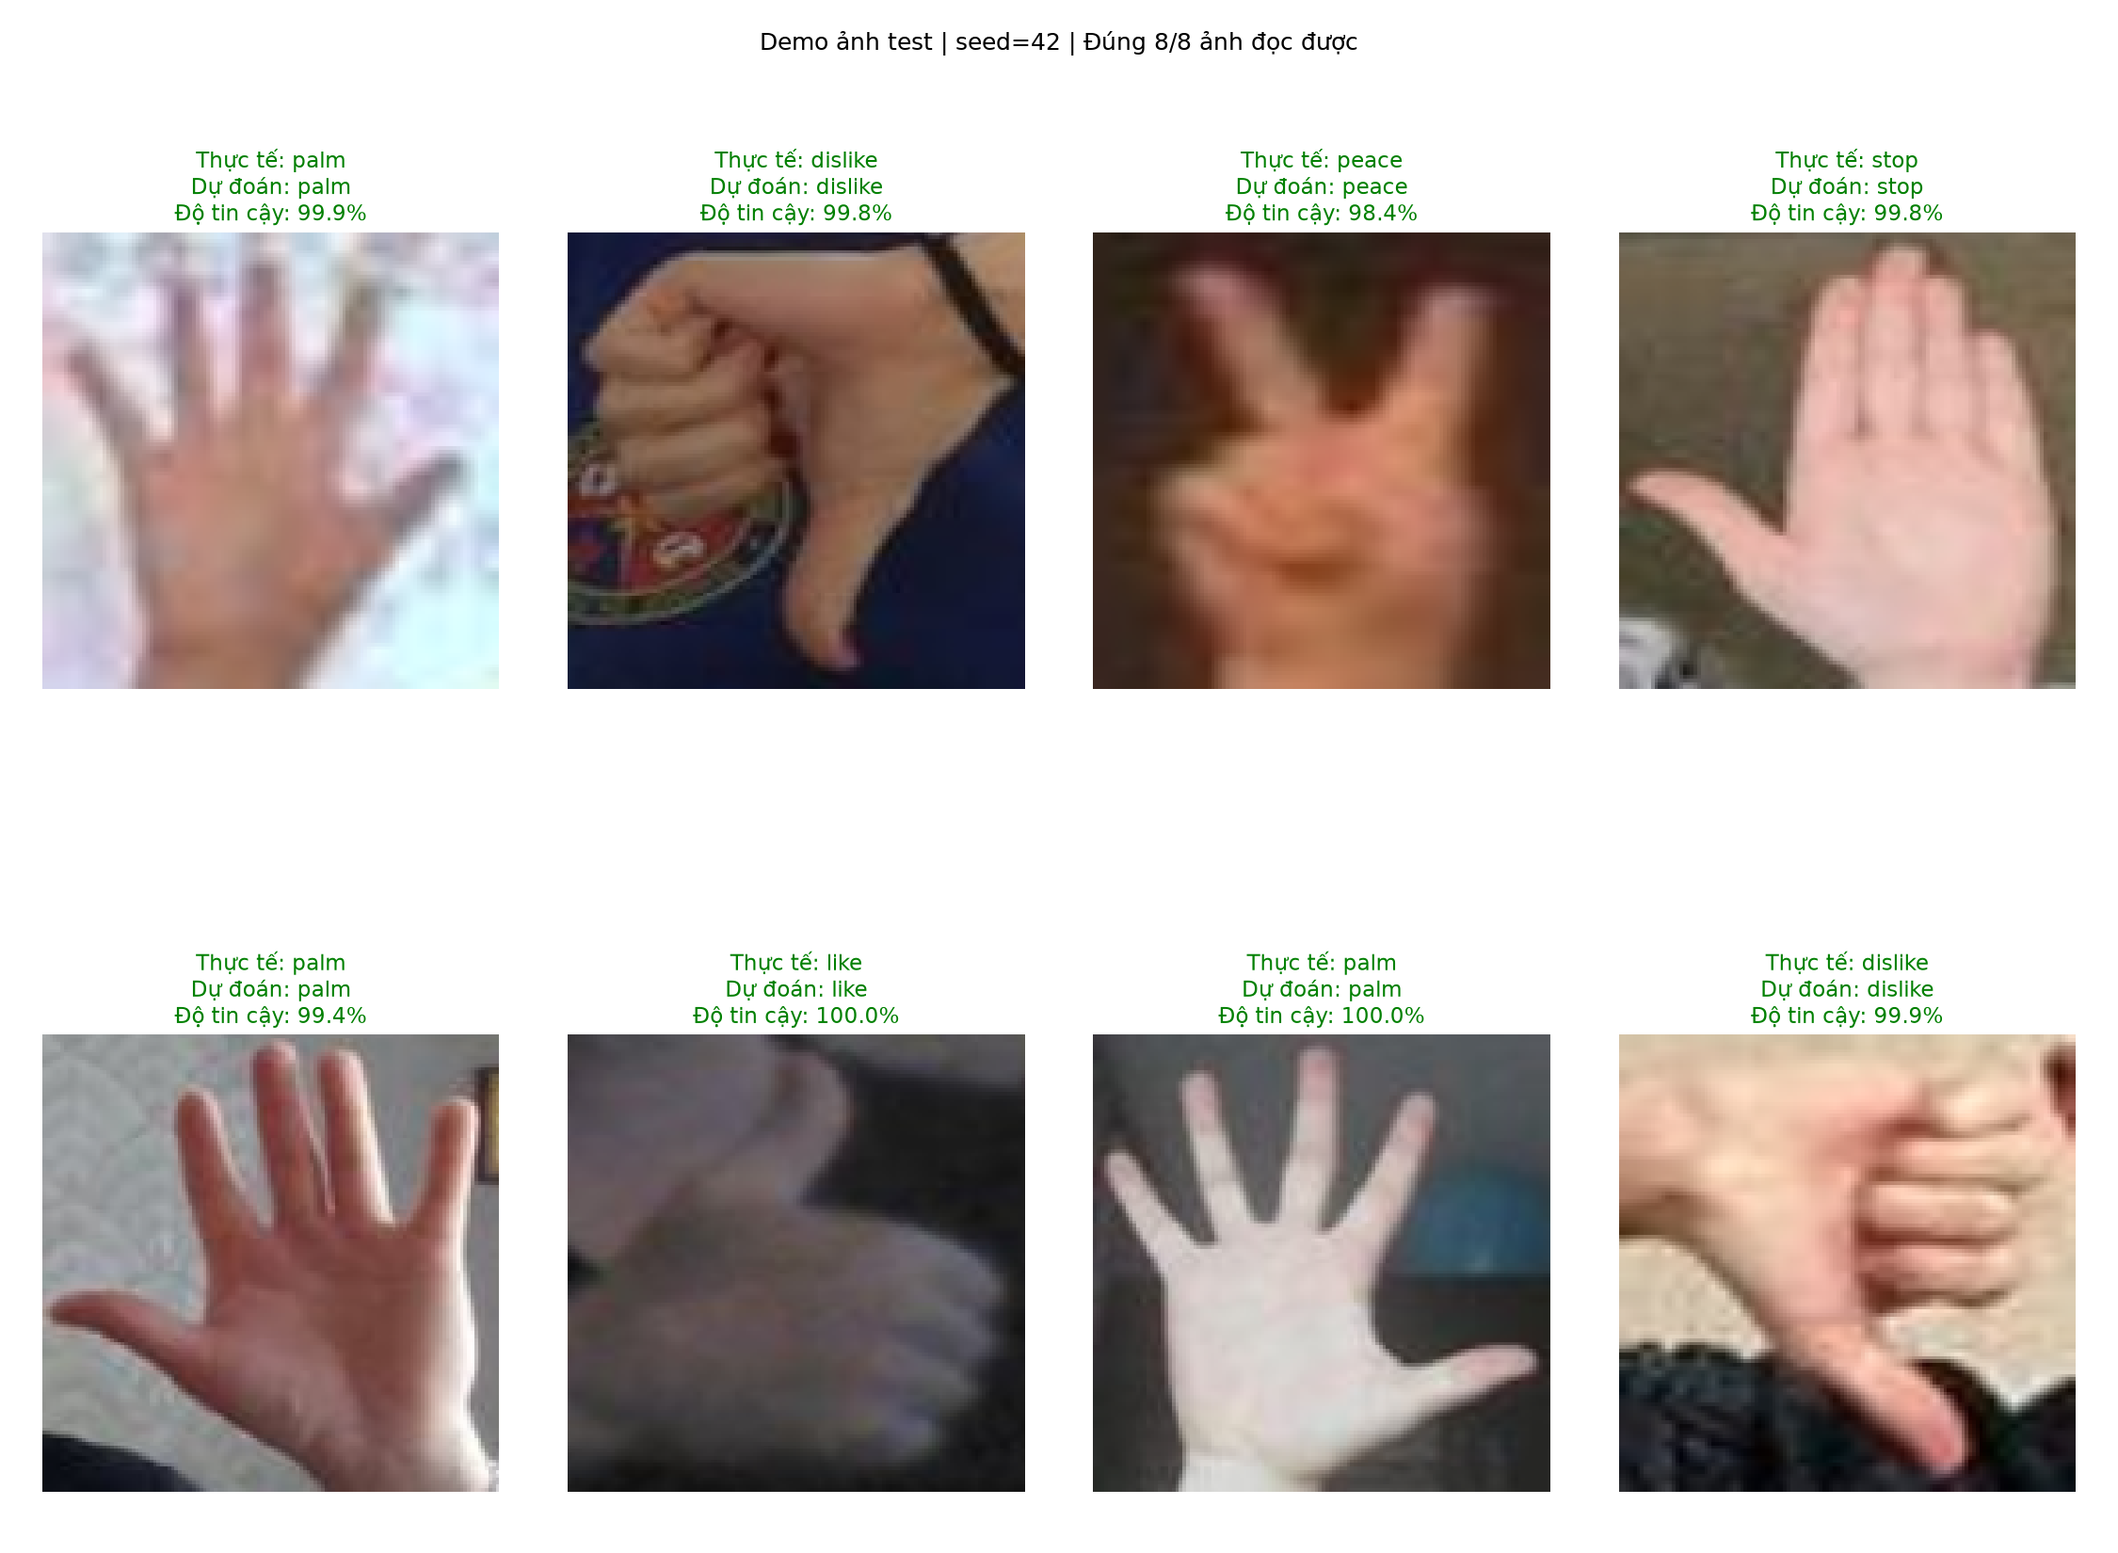
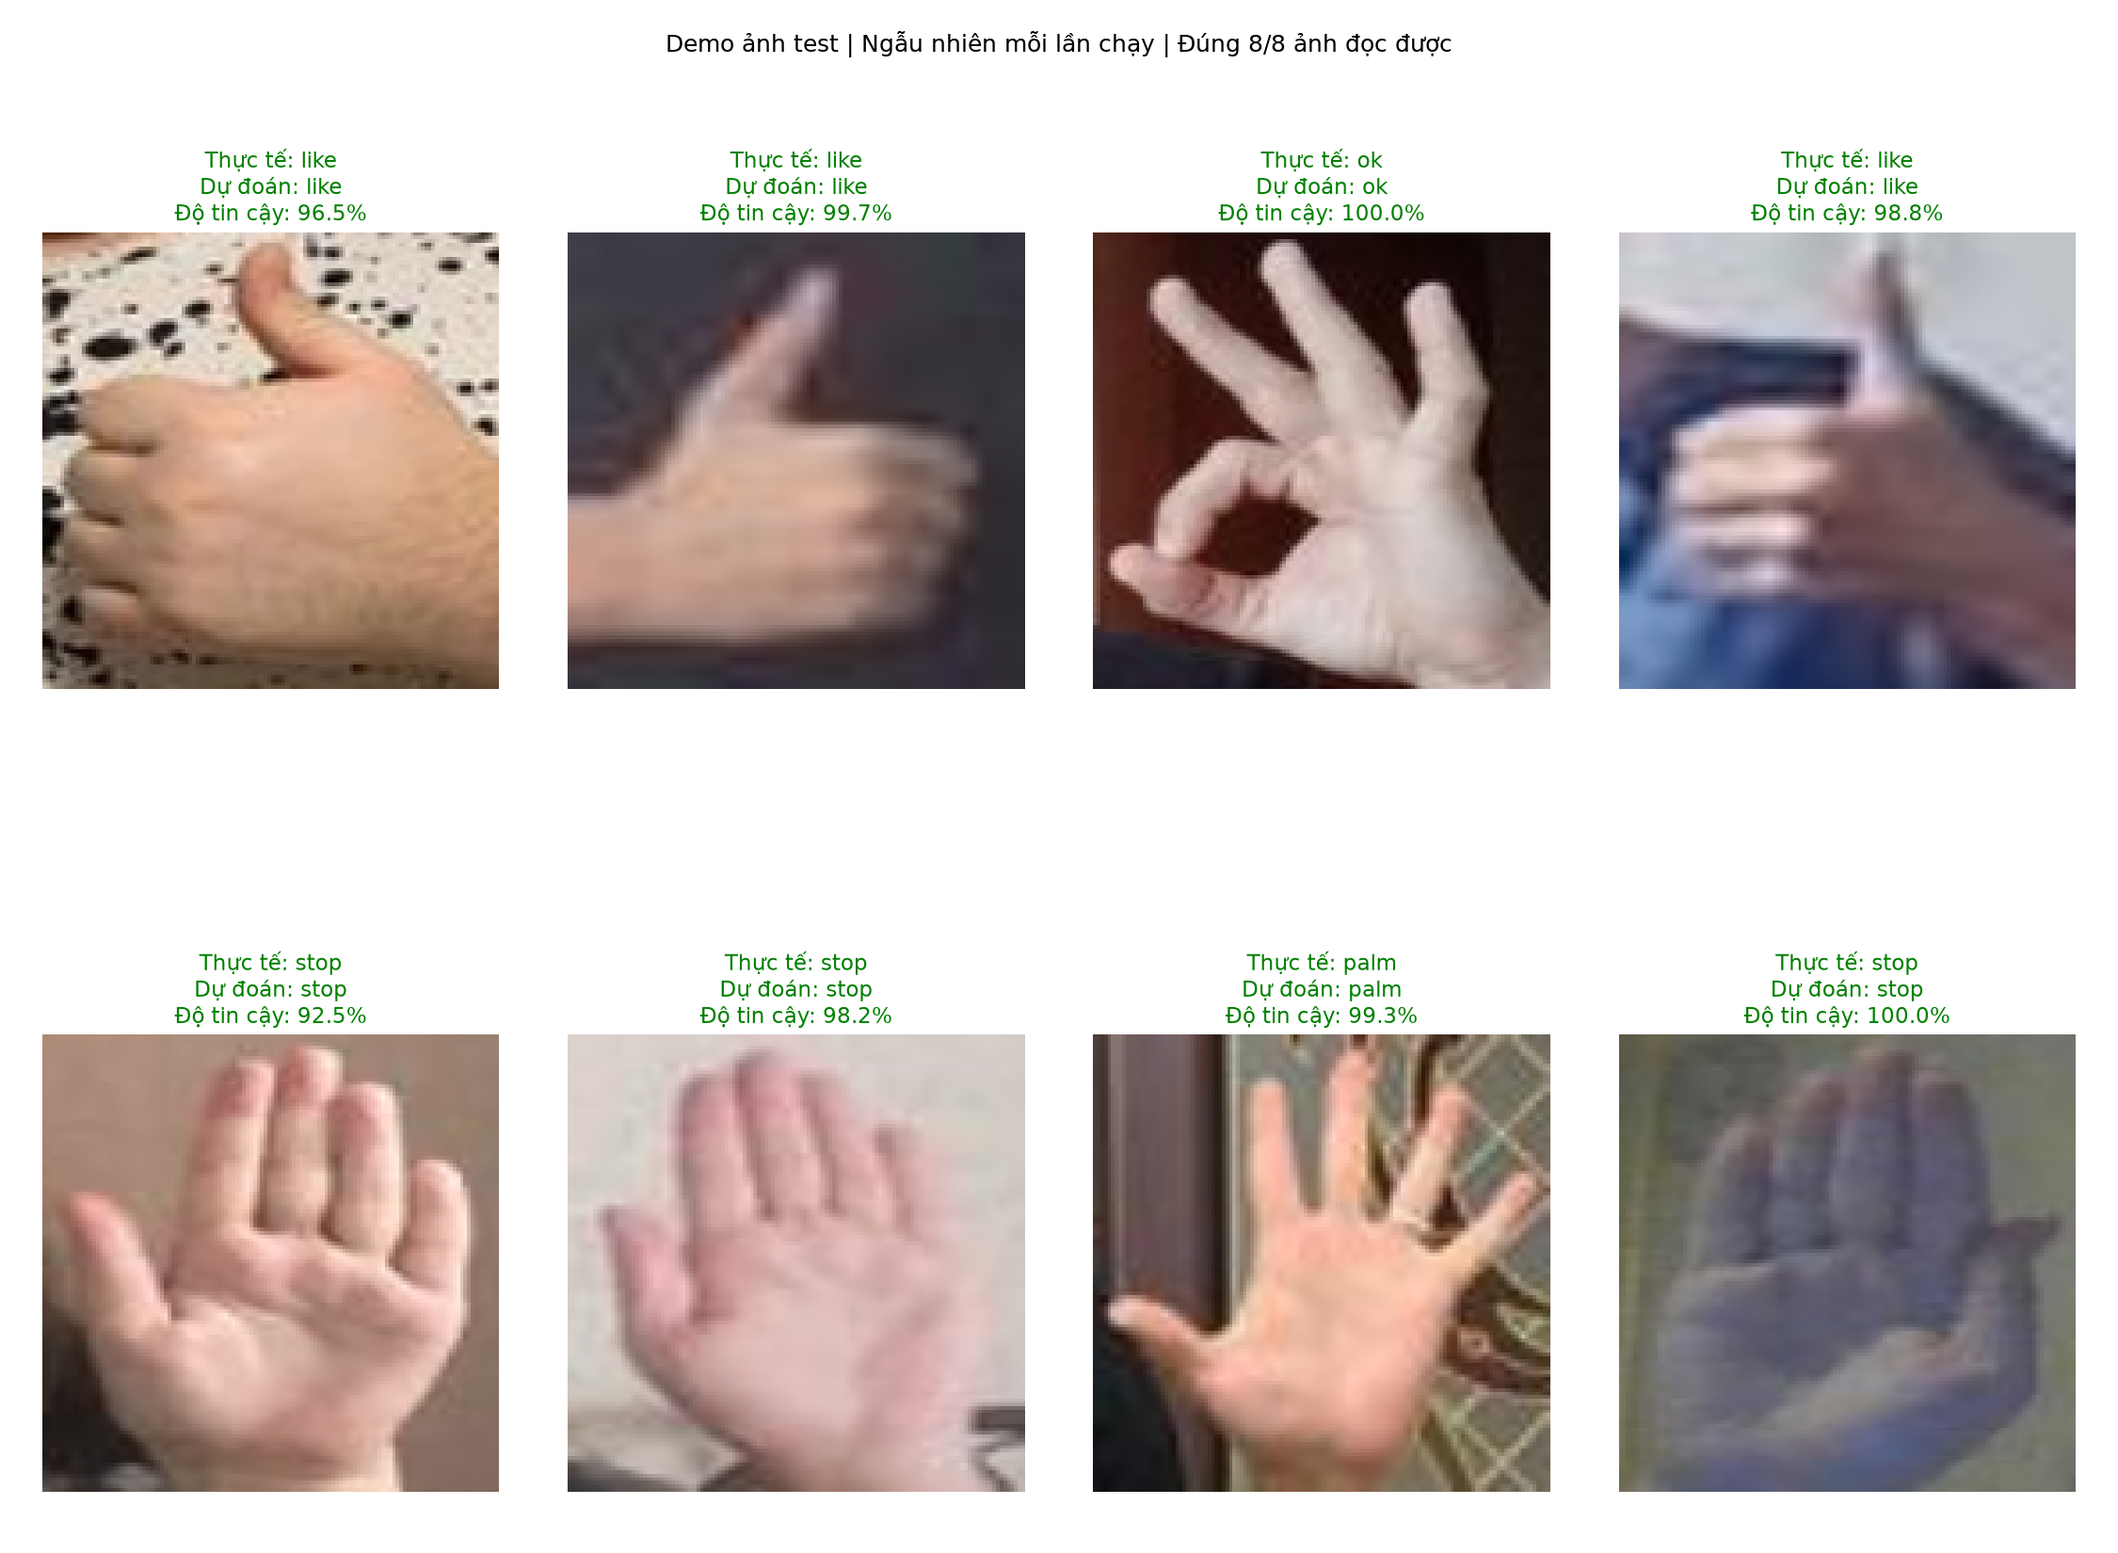
Cap nhat giao dien webcam demo va cai tien code

diff --git a/webcam_demo.py b/webcam_demo.py
@@ -1,98 +1,312 @@
-"""Buoc 10: webcam voi ROI thu cong, HOG + model da luu."""
+"""Webcam demo tu dong tim va crop CHINH XAC vung ban tay bang xu ly anh OpenCV truyen thong
+(Ket hop YCrCb + HSV, loc mat, loai bo cang tay/canh tay) va du doan cu chi bang HOG + SVM.
+"""
 
 import argparse
 import time
 
 import cv2
+import numpy as np
 
 from feature_extraction import extract_features
 from preprocessing import preprocess_hand
 from test_model import load_artifacts
 
 
+def segment_skin(frame):
+    """Phan doan vung da chinh xac bang cach ket hop ca YCrCb va HSV de tranh bat nham nen vang/go/bong toi."""
+    blurred = cv2.GaussianBlur(frame, (5, 5), 0)
+
+    # 1. YCrCb: Tach kenh do sang va kenh mau, dat nguong Y >= 70 de loai bo bong toi va toc den
+    ycrcb = cv2.cvtColor(blurred, cv2.COLOR_BGR2YCrCb)
+    mask_ycrcb = cv2.inRange(ycrcb, (70, 133, 77), (255, 173, 127))
+
+    # 2. HSV: Loc them theo sac do (Hue 0-25) va do bao hoa (Sat 30-200) de loai bo tuong vang va nen go
+    hsv = cv2.cvtColor(blurred, cv2.COLOR_BGR2HSV)
+    mask_hsv = cv2.inRange(hsv, (0, 30, 60), (25, 200, 255))
+
+    # Giao hai mask de co vung mau da that su tin cay
+    mask = cv2.bitwise_and(mask_ycrcb, mask_hsv)
+
+    # 3. Phep toan hinh thai hoc: Opening khu nhieu hat, Closing lam lien khoi ban tay
+    kernel = cv2.getStructuringElement(cv2.MORPH_ELLIPSE, (5, 5))
+    mask = cv2.morphologyEx(mask, cv2.MORPH_OPEN, kernel, iterations=2)
+    mask = cv2.morphologyEx(mask, cv2.MORPH_CLOSE, kernel, iterations=2)
+
+    return mask
+
+
+def isolate_hand_from_arm(cnt, frame_w, frame_h):
+    """Chi crop dung phan ban tay (tu dau ngon tay den co tay), cat bo phan cang tay keo dai."""
+    x, y, w, h = cv2.boundingRect(cnt)
+
+    # Ty le chieu dai / chieu rong cua ban tay nguoi tu co tay den dau ngon tay thuong la 1.0 - 1.25.
+    # Neu chieu cao h vuot qua 1.25 * w, phan du ra ben duoi la cang tay/canh tay.
+    arm_from_bottom = (y + h) >= (frame_h - 40) or (h > 1.25 * w)
+    arm_from_right = (x + w) >= (frame_w - 30) and (w > 1.25 * h)
+    arm_from_left = (x <= 30) and (w > 1.25 * h)
+
+    if arm_from_bottom:
+        # Canh tay dua tu duoi len: ban tay o tren cung, co tay va cang tay o duoi
+        hand_h = min(h, int(w * 1.25))
+        # Gioi han lai chieu cao chi lay dung ban tay tu dinh ngon tay xuong
+        h = max(20, hand_h)
+    elif arm_from_right:
+        # Canh tay dua tu ben phai vao: ban tay o ben trai
+        hand_w = min(w, int(h * 1.25))
+        w = max(20, hand_w)
+    elif arm_from_left:
+        # Canh tay dua tu ben trai vao: ban tay o ben phai
+        hand_w = min(w, int(h * 1.25))
+        x = x + w - hand_w
+        w = max(20, hand_w)
+
+    # Them padding nho (khoang 7%) quanh ban tay de khong bi cat sat ngon tay
+    pad_x = int(w * 0.07)
+    pad_y = int(h * 0.07)
+
+    x1 = max(0, x - pad_x)
+    y1 = max(0, y - pad_y)
+    x2 = min(frame_w, x + w + pad_x)
+    y2 = min(frame_h, y + h + pad_y)
+
+    return (x1, y1, x2, y2)
+
+
+def score_hand_candidate(cnt, frame_w, frame_h):
+    """Cham diem xem contour co phai la ban tay hay khong (phan biet voi mat hoac than nguoi)."""
+    area = cv2.contourArea(cnt)
+    if area < 2500 or area > (frame_w * frame_h * 0.65):
+        return -1.0
+
+    hull = cv2.convexHull(cnt)
+    hull_area = cv2.contourArea(hull)
+    if hull_area == 0:
+        return -1.0
+
+    solidity = area / hull_area
+    x, y, w, h = cv2.boundingRect(cnt)
+    cx, cy = x + w / 2.0, y + h / 2.0
+
+    # Kiem tra xem vung co giong khuon mat khong:
+    # Khuon mat thuong o nua tren man hinh, rat dac (solidity > 0.88), ti le w/h gan 0.7-1.0
+    is_face_like = (cy < frame_h * 0.5) and (solidity > 0.88) and ((y + h) < frame_h * 0.7)
+
+    # Dem do loi lom (khe giua cac ngon tay)
+    defect_score = 0.0
+    hull_indices = cv2.convexHull(cnt, returnPoints=False)
+    if len(hull_indices) > 3 and len(cnt) > 3:
+        try:
+            defects = cv2.convexityDefects(cnt, hull_indices)
+            if defects is not None:
+                for item in defects:
+                    depth = item.ravel()[3] / 256.0
+                    if depth > 15.0:
+                        defect_score += min(depth, 50.0)
+        except cv2.error:
+            pass
+
+    # Neu qua giong khuon mat va khong co dau hieu ngon tay, giam manh diem so
+    if is_face_like and defect_score < 10.0:
+        return area * 0.05
+
+    # Ban tay thuong co khe ngon tay hoac vung dua len tu duoi
+    score = area + defect_score * 150.0
+    if (y + h) >= frame_h * 0.55:
+        score *= 1.3
+
+    return score
+
+
+def detect_hand_bbox(frame):
+    """Tim contour ban tay phu hop nhat va tra ve bounding box chi bao quanh ban tay."""
+    height, width = frame.shape[:2]
+    mask = segment_skin(frame)
+
+    contours, _ = cv2.findContours(mask, cv2.RETR_EXTERNAL, cv2.CHAIN_APPROX_SIMPLE)
+    if not contours:
+        return None, mask
+
+    best_score = 0.0
+    best_cnt = None
+
+    for cnt in contours:
+        score = score_hand_candidate(cnt, width, height)
+        if score > best_score:
+            best_score = score
+            best_cnt = cnt
+
+    if best_cnt is None or best_score < 2000.0:
+        return None, mask
+
+    # Tinh bounding box va cat bo phan cang tay
+    bbox = isolate_hand_from_arm(best_cnt, width, height)
+    x1, y1, x2, y2 = bbox
+
+    if (x2 - x1) < 25 or (y2 - y1) < 25:
+        return None, mask
+
+    return (x1, y1, x2, y2), mask
+
+
 def predict_crop(crop, model, scaler):
+    """Dua crop ban tay vao dung pipeline preprocessing va HOG khi train model."""
+    if crop is None or crop.size == 0 or crop.shape[0] < 5 or crop.shape[1] < 5:
+        return None, None, None
+
     stages = preprocess_hand(crop, mask_method="none")
     vector, _ = extract_features(stages, mode="hog")
     scaled = scaler.transform(vector.reshape(1, -1))
+
     label = str(model.predict(scaled)[0])
     confidence = None
     if hasattr(model, "predict_proba"):
-        confidence = float(model.predict_proba(scaled)[0, list(model.classes_).index(label)])
+        probabilities = model.predict_proba(scaled)[0]
+        confidence = float(probabilities[list(model.classes_).index(label)])
+
     return label, confidence, stages["clahe"]
 
 
 def run(camera=0):
     model, scaler, _ = load_artifacts()
     capture = cv2.VideoCapture(camera)
+
     try:
         if not capture.isOpened():
-            raise ValueError(f"Khong mo duoc camera {camera}. Thu --camera 1 hoac dong ung dung dang dung camera.")
+            raise ValueError(
+                f"Khong mo duoc camera {camera}. Thu --camera 1 hoac kiem tra ket noi webcam."
+            )
+
         capture.set(cv2.CAP_PROP_FRAME_WIDTH, 640)
         capture.set(cv2.CAP_PROP_FRAME_HEIGHT, 480)
-        roi = None
-        active = False
-        label, confidence = "Paused", None
-        last_prediction = 0.0
-        print("R: chon vung tay (Enter xac nhan va tu bat du doan, C huy).")
-        print("Space: bat/tat du doan. Q/Esc: thoat.")
-        print("Khoanh sat ban tay; giu tay trong khung. Khong tu dong phat hien/theo doi tay.")
+
+        print("=== CHUONG TRINH NHAN DIEN CU CHI TAY TU DONG ===")
+        print("- He thong tu dong phan doan da tay, loai bo mat va cat dung ban tay.")
+        print("- Phim 'q' hoac 'Esc': Thoat.")
+        print("- Phim 'm': Bat/tat cua so hien thi Mask phan doan da.")
+
+        show_mask_window = False
+        label = None
+        confidence = None
+        last_prediction_time = 0.0
+
+        prev_frame_time = time.perf_counter()
+        fps = 0.0
+
         while True:
             ok, frame = capture.read()
             if not ok or frame is None:
                 raise ValueError("Khong doc duoc frame tu webcam.")
-            # Giu huong anh goc; khong lat ngang dau vao so voi pipeline train.
+
+            now = time.perf_counter()
+            dt = now - prev_frame_time
+            prev_frame_time = now
+            if dt > 0:
+                current_fps = 1.0 / dt
+                fps = current_fps if fps == 0.0 else (0.85 * fps + 0.15 * current_fps)
+
             height, width = frame.shape[:2]
-            if roi is None:
-                side = min(width, height) // 2
-                roi = ((width - side) // 2, (height - side) // 2, side, side)
-            x, y, w, h = roi
-            if x < 0 or y < 0 or x + w > width or y + h > height:
-                roi = None
-                active = False
-                continue
-            if active and time.perf_counter() - last_prediction >= 0.2:
-                label, confidence, preview = predict_crop(frame[y:y + h, x:x + w], model, scaler)
-                last_prediction = time.perf_counter()
             display = frame.copy()
-            cv2.rectangle(display, (x, y), (x + w - 1, y + h - 1), (0, 255, 0), 2)
-            text = f"Gesture: {label}" if active else "Paused - put hand in ROI, press Space"
-            cv2.putText(display, text, (10, 28), cv2.FONT_HERSHEY_SIMPLEX, 0.6, (0, 255, 0), 2)
-            if active and confidence is not None:
-                cv2.putText(display, f"Confidence: {confidence:.1%}", (10, 55),
-                            cv2.FONT_HERSHEY_SIMPLEX, 0.6, (0, 255, 0), 2)
-            cv2.putText(display, "R: select ROI | Space: predict/pause | Q: quit", (10, height - 15),
-                        cv2.FONT_HERSHEY_SIMPLEX, 0.5, (255, 255, 255), 1)
+
+            # 1. Tu dong tim vung ban tay (da loai mat va cat co tay)
+            bbox, mask = detect_hand_bbox(frame)
+
+            if bbox is not None:
+                x1, y1, x2, y2 = bbox
+                # Ve bounding box xanh la bao quanh dung ban tay
+                cv2.rectangle(display, (x1, y1), (x2, y2), (0, 255, 0), 2)
+
+                # Du doan cu chi moi 0.08 giay de toi uu do muot ma khong giat lag
+                if now - last_prediction_time >= 0.08:
+                    hand_crop = frame[y1:y2, x1:x2]
+                    pred_label, pred_conf, _ = predict_crop(hand_crop, model, scaler)
+                    if pred_label is not None:
+                        label = pred_label
+                        confidence = pred_conf
+                        last_prediction_time = now
+
+                # Hien thi thong tin cu chi
+                if label:
+                    cv2.putText(
+                        display,
+                        f"Gesture: {label.upper()}",
+                        (15, 35),
+                        cv2.FONT_HERSHEY_SIMPLEX,
+                        0.75,
+                        (0, 255, 0),
+                        2,
+                    )
+                if confidence is not None:
+                    cv2.putText(
+                        display,
+                        f"Confidence: {confidence:.1%}",
+                        (15, 65),
+                        cv2.FONT_HERSHEY_SIMPLEX,
+                        0.65,
+                        (0, 255, 0),
+                        2,
+                    )
+            else:
+                # Khong tim thay ban tay hop le
+                label = None
+                confidence = None
+                cv2.putText(
+                    display,
+                    "No hand detected",
+                    (15, 35),
+                    cv2.FONT_HERSHEY_SIMPLEX,
+                    0.75,
+                    (0, 0, 255),
+                    2,
+                )
+
+            # Hien thi FPS
+            cv2.putText(
+                display,
+                f"FPS: {int(round(fps))}",
+                (15, 95),
+                cv2.FONT_HERSHEY_SIMPLEX,
+                0.6,
+                (255, 255, 0),
+                2,
+            )
+
+            # Huong dan phim tat
+            cv2.putText(
+                display,
+                "Press 'q' to quit | 'm' to toggle mask",
+                (15, height - 15),
+                cv2.FONT_HERSHEY_SIMPLEX,
+                0.5,
+                (200, 200, 200),
+                1,
+            )
+
             cv2.imshow("Gesture webcam", display)
+
+            if show_mask_window:
+                cv2.imshow("Skin Mask", mask)
+
             key = cv2.waitKey(1) & 0xFF
             if key in (ord("q"), 27):
                 break
             if cv2.getWindowProperty("Gesture webcam", cv2.WND_PROP_VISIBLE) < 1:
                 break
-            if key == ord("r"):
-                active = False
-                selected = cv2.selectROI("Select hand - Enter confirm", frame,
-                                        showCrosshair=True, fromCenter=False)
-                cv2.destroyWindow("Select hand - Enter confirm")
-                if selected[2] >= 16 and selected[3] >= 16:
-                    roi = tuple(int(v) for v in selected)
-                    active = True
-                    last_prediction = 0.0
-                    print("ROI:", roi, "- dang du doan; xem Gesture va Confidence tren cua so webcam.")
-                else:
-                    print("ROI huy hoac qua nho; giu ROI truoc.")
-                label, confidence = "Waiting" if active else "Paused", None
-            if key == ord(" "):
-                active = not active
-                label, confidence = "Waiting", None
-                last_prediction = 0.0
+            if key == ord("m"):
+                show_mask_window = not show_mask_window
+                if not show_mask_window:
+                    cv2.destroyWindow("Skin Mask")
+
     finally:
         capture.release()
         cv2.destroyAllWindows()
 
 
 if __name__ == "__main__":
-    parser = argparse.ArgumentParser(description="Webcam demo HOG voi ROI thu cong")
-    parser.add_argument("--camera", type=int, default=0)
+    parser = argparse.ArgumentParser(
+        description="Webcam demo nhan dien cu chi tay tu dong bang OpenCV + HOG + SVM"
+    )
+    parser.add_argument("--camera", type=int, default=0, help="Camera index (mac dinh: 0)")
     args = parser.parse_args()
     try:
         run(args.camera)

diff --git a/test_model.py b/test_model.py
@@ -1,4 +1,4 @@
-"""Buoc 9: load model va du doan lai tu anh goc trong tap test."""
+"""load model va du doan lai tu anh goc trong tap test."""
 
 import argparse
 import csv
@@ -94,7 +94,6 @@ def demo(count=8, seed=None, show=True):
     print(f"Valid: {len(success)}/{len(rows)} | Correct: {correct}/{len(success)}")
     print("HOG recomputed from images matches cached features for valid samples.")
     print("Saved:", output)
-    print("Dung o buoc 9; chua mo webcam.")
     if show:
         plt.show()
     plt.close(fig)

diff --git a/train_model.py b/train_model.py
@@ -1,4 +1,4 @@
-"""Chuan bi HOG (buoc 6) va train/so sanh validation (buoc 7)."""
+"""Chuan bi HOG va train/so sanh validation."""
 
 import csv
 import argparse
